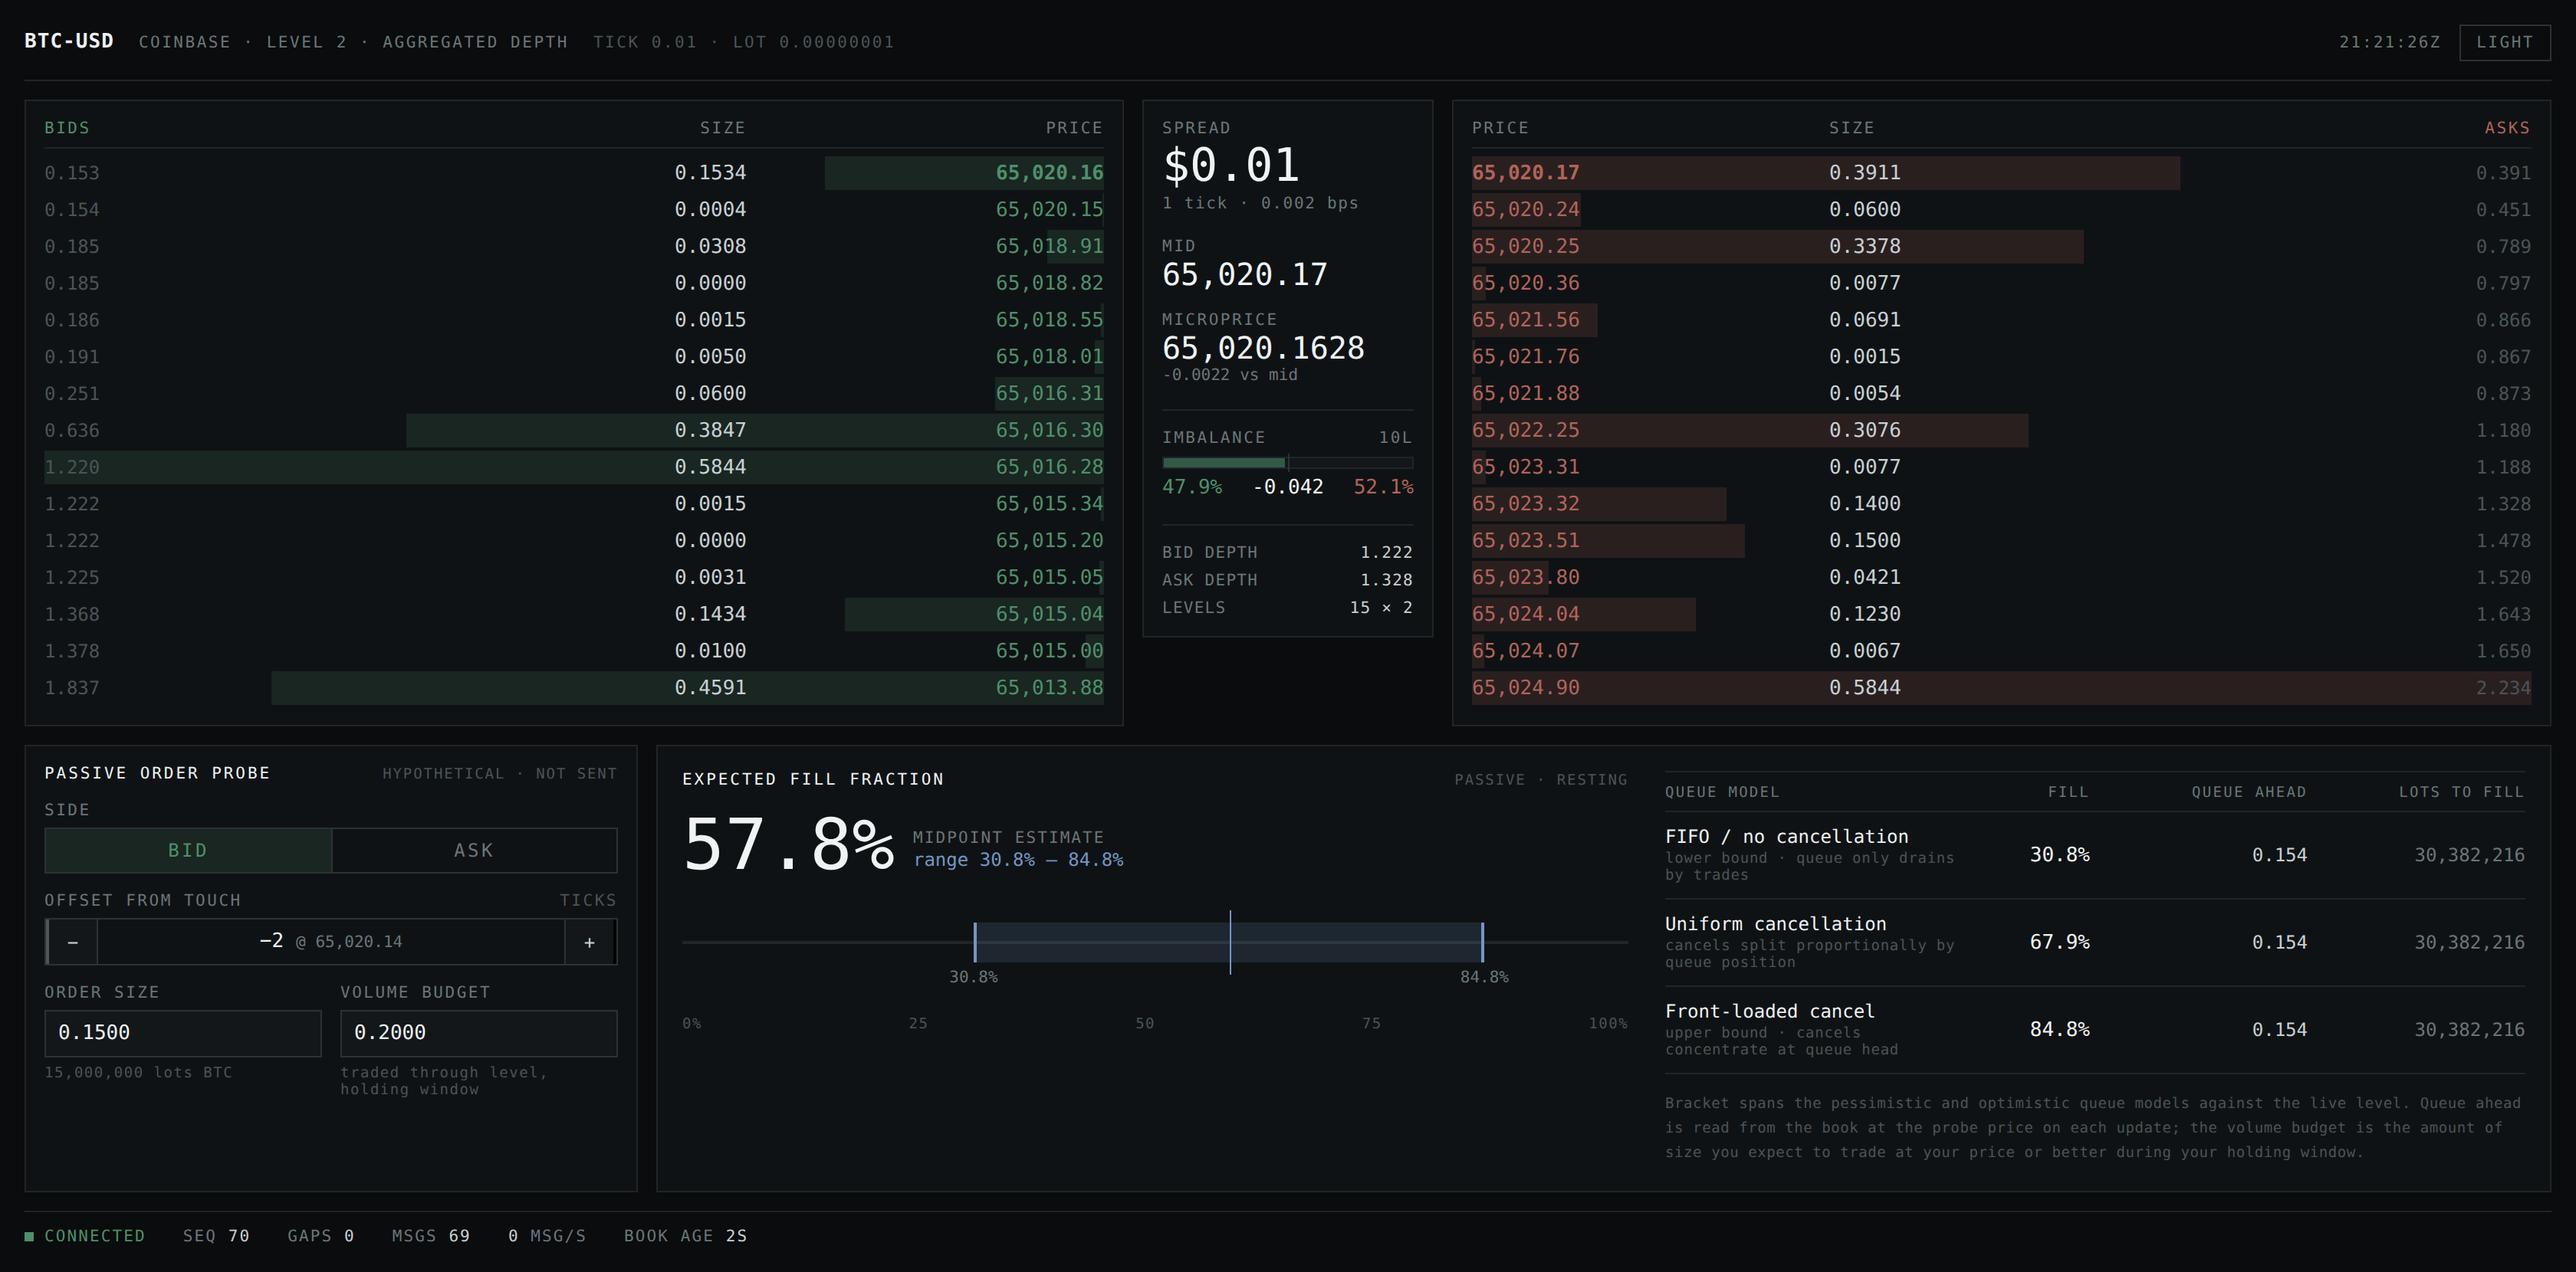
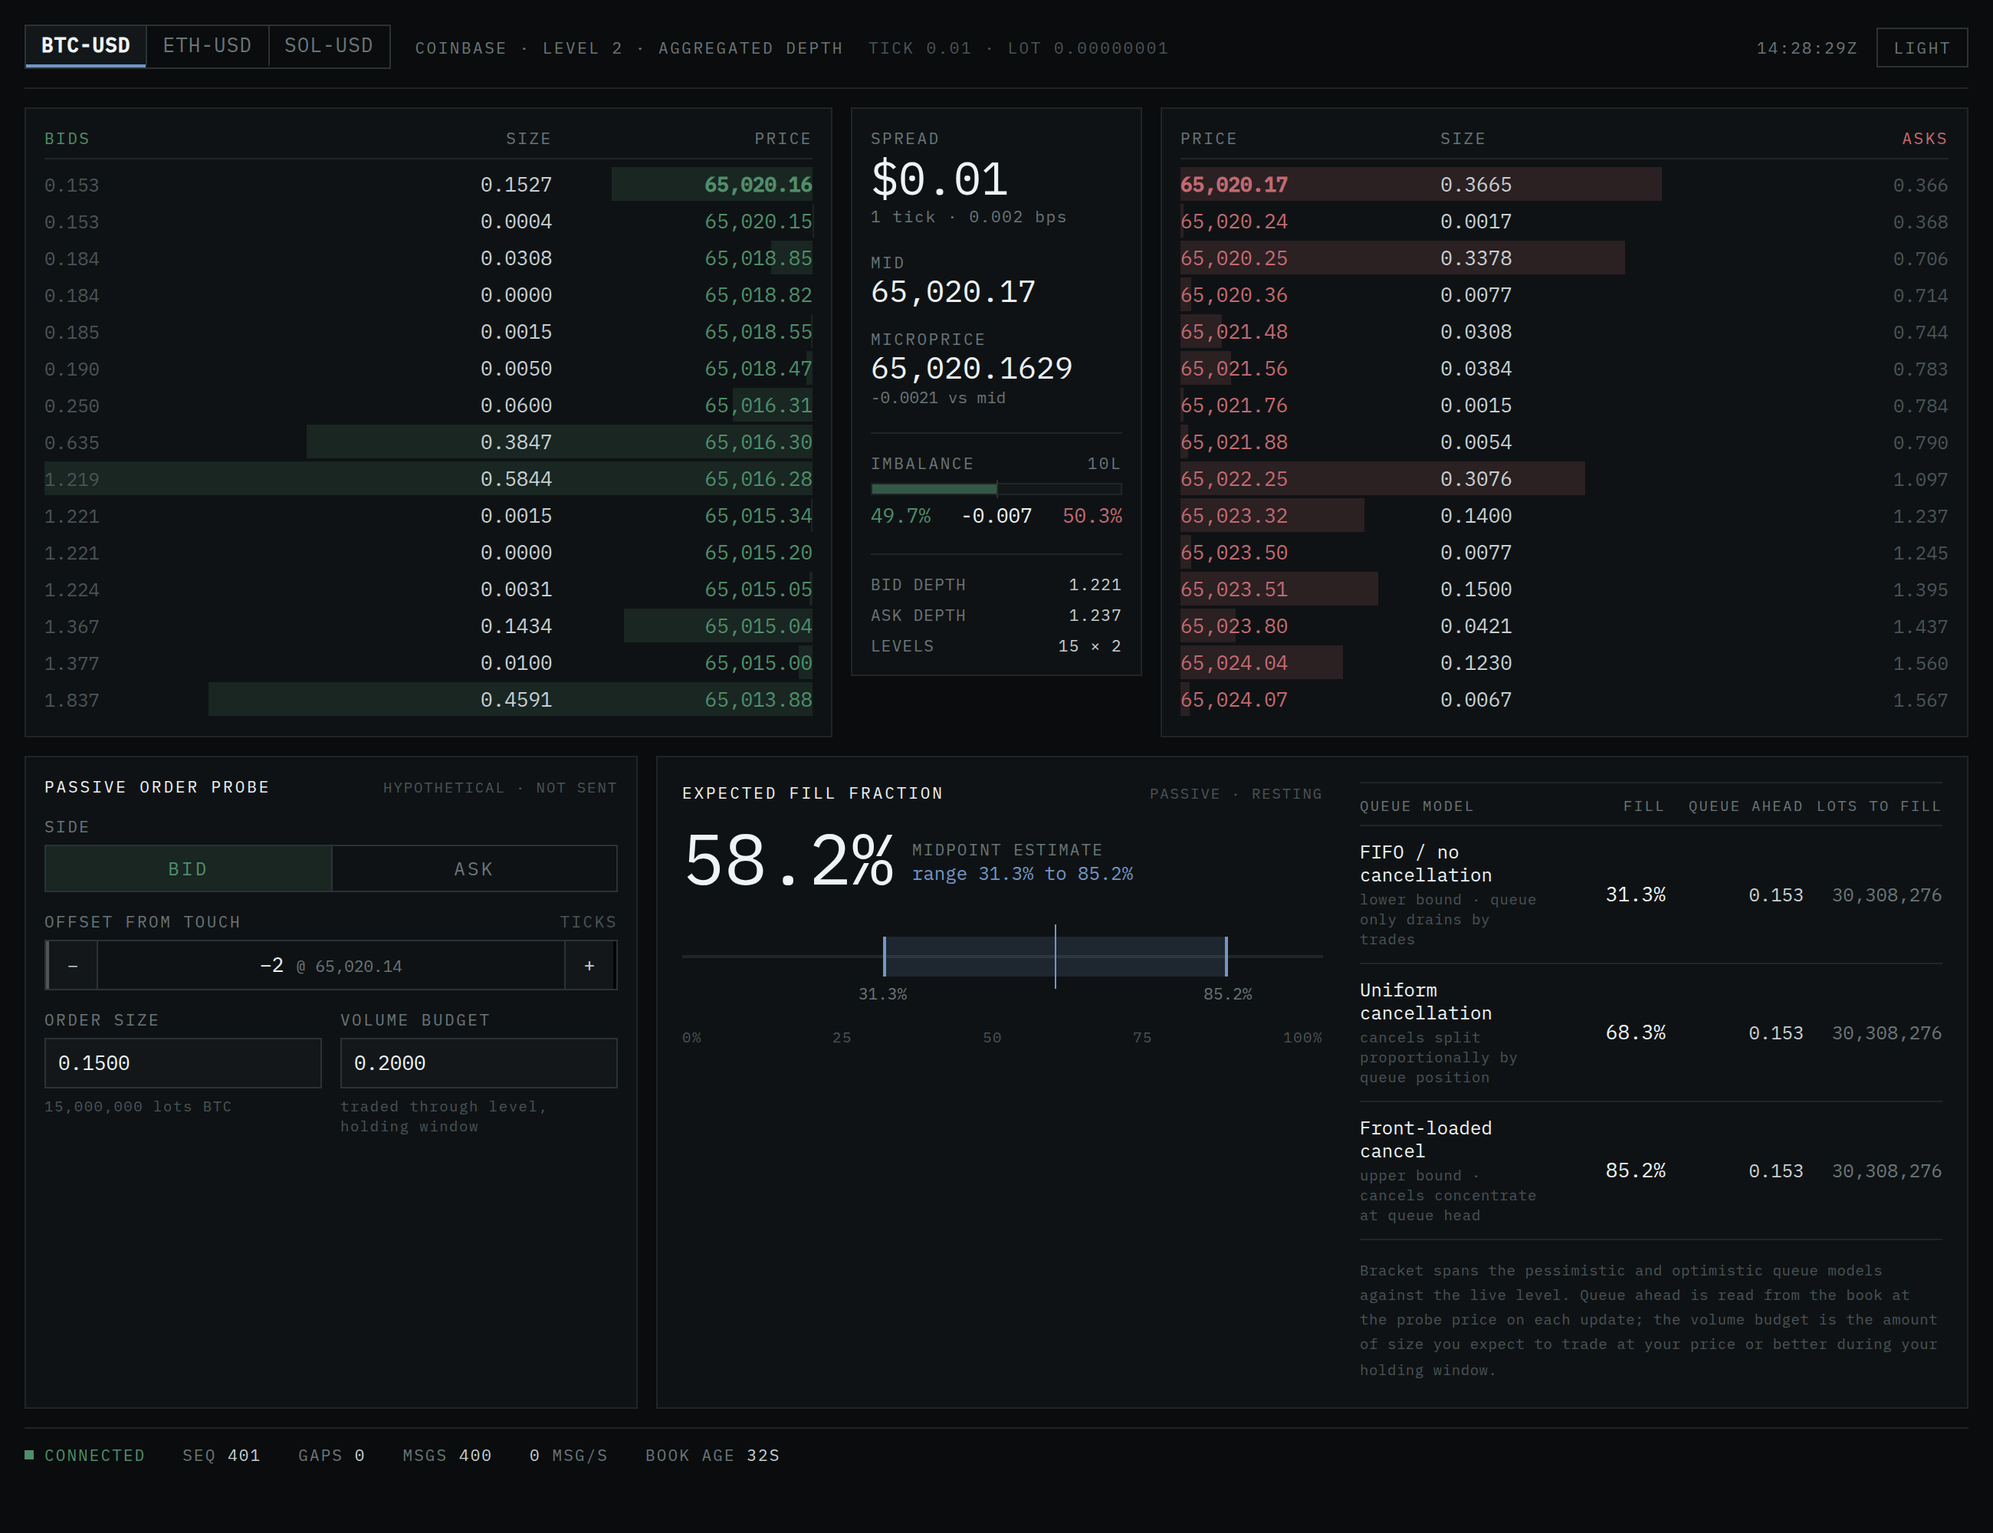
docs: copy edits across README and docstrings
Light wording and punctuation consistency across README, docs,
source docstrings and tests. No behaviour changes; all tests still pass.

diff --git a/tests/sequencing.test.ts b/tests/sequencing.test.ts
@@ -32,7 +32,7 @@ function snapshot(sequence: number, bids: PriceSize[] = [{ price: 99, size: 5 }]
   return { sequence, eventTimeMs: 1_000, bids, asks };
 }
 
-describe("Synchroniser — happy path", () => {
+describe("Synchroniser, happy path", () => {
   it("starts disconnected and needs a snapshot", () => {
     const s = sync();
     expect(s.syncState).toBe(SyncState.Disconnected);
@@ -76,7 +76,7 @@ describe("Synchroniser — happy path", () => {
   });
 });
 
-describe("Synchroniser — gaps and resync", () => {
+describe("Synchroniser, gaps and resync", () => {
   it("a gap triggers resync and clears the book", () => {
     const seen: Gap[] = [];
     const s = sync(new InferredContinuityRule(), { onGap: (gap) => seen.push(gap) });
@@ -84,7 +84,7 @@ describe("Synchroniser — gaps and resync", () => {
     s.onDelta(delta(101));
     expect(s.syncState).toBe(SyncState.Synced);
 
-    // 103 does not follow 101 — sequence 102 was lost.
+    // 103 does not follow 101, sequence 102 was lost.
     expect(s.onDelta(delta(103))).toBe(false);
     expect(s.syncState).toBe(SyncState.Buffering);
     expect(s.book.bestBid()).toBeNull();
@@ -117,7 +117,7 @@ describe("Synchroniser — gaps and resync", () => {
   });
 });
 
-describe("Synchroniser — snapshots that cannot be used", () => {
+describe("Synchroniser, snapshots that cannot be used", () => {
   it("a snapshot landing in a hole is rejected", () => {
     const s = sync();
     s.onDelta(delta(110));
@@ -146,7 +146,7 @@ describe("Synchroniser — snapshots that cannot be used", () => {
   });
 });
 
-describe("Synchroniser — buffer bounds and reordering", () => {
+describe("Synchroniser, buffer bounds and reordering", () => {
   it("buffer is bounded and drops the oldest", () => {
     const s = sync(new InferredContinuityRule(), { maxBuffer: 3 });
     for (let i = 101; i <= 110; i++) s.onDelta(delta(i));
@@ -172,7 +172,7 @@ describe("Synchroniser — buffer bounds and reordering", () => {
   });
 });
 
-describe("Synchroniser — duplicates and stale", () => {
+describe("Synchroniser, duplicates and stale", () => {
   it("a duplicate delta is discarded without a resync", () => {
     const s = sync();
     s.onSnapshot(snapshot(100));
@@ -200,7 +200,7 @@ describe("Synchroniser — duplicates and stale", () => {
   });
 });
 
-describe("Synchroniser — venue rules", () => {
+describe("Synchroniser, venue rules", () => {
   it("ExplicitPredecessorRule follows the named predecessor", () => {
     const s = sync(new ExplicitPredecessorRule());
     s.onSnapshot(snapshot(100));
@@ -232,7 +232,7 @@ describe("Synchroniser — venue rules", () => {
   });
 });
 
-describe("Synchroniser — lifecycle", () => {
+describe("Synchroniser, lifecycle", () => {
   it("reset returns to disconnected", () => {
     const s = sync();
     s.onSnapshot(snapshot(100));

diff --git a/tests/fill.test.ts b/tests/fill.test.ts
@@ -13,7 +13,7 @@ function bookAt(bids: PriceSize[], asks: PriceSize[]): OrderBook {
   return book;
 }
 
-describe("estimateFill — marketable orders", () => {
+describe("estimateFill, marketable orders", () => {
   it("a market buy at the ask fills against available depth", () => {
     const book = bookAt([{ price: 99, size: 5 }], [{ price: 100, size: 8 }]);
     const range = estimateFill(book, {
@@ -39,7 +39,7 @@ describe("estimateFill — marketable orders", () => {
       volumeBudget: 0,
     });
     expect(range.marketable).toBe(true);
-    // Only the touch is consumed here — we don't walk the book beyond it.
+    // Only the touch is consumed here, we don't walk the book beyond it.
     expect(range.low).toBeCloseTo(0.3, 6);
   });
 
@@ -56,7 +56,7 @@ describe("estimateFill — marketable orders", () => {
   });
 });
 
-describe("estimateFill — passive orders", () => {
+describe("estimateFill, passive orders", () => {
   it("counts existing size at the price as queue ahead", () => {
     const book = bookAt(
       [{ price: 99, size: 10 }],
@@ -186,7 +186,7 @@ describe("estimateFill — passive orders", () => {
   });
 });
 
-describe("estimateFill — the three models actually diverge", () => {
+describe("estimateFill, the three models actually diverge", () => {
   // Regression guard for the defect the README screenshot surfaced: with an
   // empty tail behind a hypothetical order, the cancellations-ahead split is
   // forced and every model returned an identical number, so the bracket was

diff --git a/tests/levels.test.ts b/tests/levels.test.ts
@@ -2,7 +2,7 @@ import { describe, expect, it } from "vitest";
 import { PriceLevels, lowerBound } from "../src/lib/levels.js";
 import { Side } from "../src/lib/types.js";
 
-/** Deliberately naive levels — sorts on every read. Obviously correct.
+/** Deliberately naive levels, sorts on every read. Obviously correct.
  *  Used as an oracle for the differential test. */
 class ReferenceLevels {
   private readonly sizes = new Map<number, number>();
@@ -96,12 +96,12 @@ describe("PriceLevels", () => {
   it("sizeAhead for a passive bid counts all its own price and better", () => {
     const bids = new PriceLevels(Side.Bid);
     for (const [p, s] of [[95, 10], [98, 5], [99, 3]]) bids.set(p!, s!);
-    // Placing at 99 (the touch): everything at 99 is ahead (5 no — wait,
+    // Placing at 99 (the touch): everything at 99 is ahead (5 no, wait,
     // 3 at 99). Nothing strictly better than 99 exists.
     expect(bids.sizeAhead(99)).toBe(3);
     // Placing at 98: everything at 98 and everything at 99 is ahead.
     expect(bids.sizeAhead(98)).toBe(5 + 3);
-    // Placing above the touch is marketable — returns null.
+    // Placing above the touch is marketable, returns null.
     expect(bids.sizeAhead(100)).toBeNull();
   });
 

diff --git a/tests/feed.test.ts b/tests/feed.test.ts
@@ -108,7 +108,7 @@ const l2 = (
   changes,
 });
 
-describe("Feed — ingestion", () => {
+describe("Feed, ingestion", () => {
   it("applies a snapshot and then a delta, in order", () => {
     const { feed } = makeFeed(SNAP_PAYLOAD);
     feed.ingestSnapshot(SNAP_PAYLOAD);
@@ -173,7 +173,7 @@ describe("Feed — ingestion", () => {
   });
 });
 
-describe("Feed — WebSocket lifecycle", () => {
+describe("Feed, WebSocket lifecycle", () => {
   it("opens a socket and subscribes to the product on open", async () => {
     const { feed } = makeFeed(SNAP_PAYLOAD);
     await feed.start();
@@ -207,7 +207,7 @@ describe("Feed — WebSocket lifecycle", () => {
   });
 });
 
-describe("Feed — message routing", () => {
+describe("Feed, message routing", () => {
   it("routes l2update messages through the ingest path", async () => {
     const { feed } = makeFeed(SNAP_PAYLOAD);
     await feed.start();

diff --git a/tests/types.test.ts b/tests/types.test.ts
@@ -24,13 +24,13 @@ describe("Instrument", () => {
 
   it("accepts inputs with fewer decimals than the grid", () => {
     // sizeScale is 8 for BTC but "0.5" only has 1 decimal. The parser must
-    // upscale rather than error — venues routinely trim trailing zeros.
+    // upscale rather than error, venues routinely trim trailing zeros.
     expect(btc.toLots("0.5")).toBe(50_000_000);
     expect(btc.toLots("1")).toBe(100_000_000);
     expect(btc.toTicks("100")).toBe(10_000);
   });
 
-  it("snapTicks rounds to nearest — used at the venue boundary", () => {
+  it("snapTicks rounds to nearest, used at the venue boundary", () => {
     // The strict version rejects; snap version accepts and rounds.
     expect(btc.snapTicks("64653.204")).toBe(btc.toTicks("64653.20"));
     expect(btc.snapTicks("64653.205")).toBe(btc.toTicks("64653.20") + 1);

diff --git a/tests/book.test.ts b/tests/book.test.ts
@@ -73,7 +73,7 @@ describe("OrderBook", () => {
 
   it("a transient cross inside one delta is allowed", () => {
     // The single message that both lifts the bid and moves the ask must
-    // not fail — the book is fine once the whole message is applied.
+    // not fail, the book is fine once the whole message is applied.
     const book = new OrderBook(INSTRUMENT);
     book.loadSnapshot(snapshot([level(99, 5)], [level(101, 4)]));
     book.applyDelta(delta(101, [level(102, 3)], [level(101, 0), level(103, 2)]));

diff --git a/tests/coinbase.test.ts b/tests/coinbase.test.ts
@@ -40,7 +40,7 @@ describe("parseSnapshot", () => {
     expect(snap.sequence).toBe(999);
   });
 
-  it("filters out zero-size levels — snapshot rows can carry them", () => {
+  it("filters out zero-size levels, snapshot rows can carry them", () => {
     const snap = parseSnapshot(
       {
         sequence: 1,

diff --git a/docs/design/design-README.md b/docs/design/design-README.md
@@ -84,7 +84,7 @@ fold instead of leaving a short column on tall displays.
   `--bid`/`--ask` text; unselected = transparent + `--dim`. Labels `BID` / `ASK`, 12px, `.14em`, `7px 0`.
 - `OFFSET FROM TOUCH` (right-hand hint `TICKS`): grid `34px 1fr 34px`; `−` / `+` buttons on `--panel-2`
   with 1px dividers (hover → `--line` bg, `--text-hi`); center shows signed offset (13px `--text-hi`)
-  and `@ 64,122.95` (10.5px `--dim`). Clamped 0–40 ticks. Default **2**.
+  and `@ 64,122.95` (10.5px `--dim`). Clamped 0 to 40 ticks. Default **2**.
 - Two inputs side by side (`ORDER SIZE` default `0.0500`, `VOLUME BUDGET` default `2.0000`):
   `--panel-2` bg, `1px solid --line-2`, `7px 8px`, 13px, focus border `--accent`, no outline.
   Sub-captions 9.5px `--dim-2`: `500 lots BTC` / `traded through level, holding window`.
@@ -101,7 +101,7 @@ fold instead of leaving a short column on tall displays.
   - range band: `top: 14px`, `height: 26px`, `background: --accent-soft`,
     `border-left/right: 2px solid --accent`, `left = low%`, `width = max(high-low, .4)%`;
   - midpoint marker: 1px `--accent`, `top: 6px`, `height: 42px`, `left = midpoint%`;
-  - end labels at `top: 44px`, `translateX(-50%)`, positions clamped to 6–94%, shown **only when the
+  - end labels at `top: 44px`, `translateX(-50%)`, positions clamped to 6 to 94%, shown **only when the
     range is ≥24% wide**; below that a single merged `low - high` label centered at `clamp(mid, 14, 86)%`;
   - axis ticks at the bottom: `0% 25 50 75 100%`, 9.5px `--dim-2`, space-between;
   - all bracket geometry transitions `190ms ease`.
